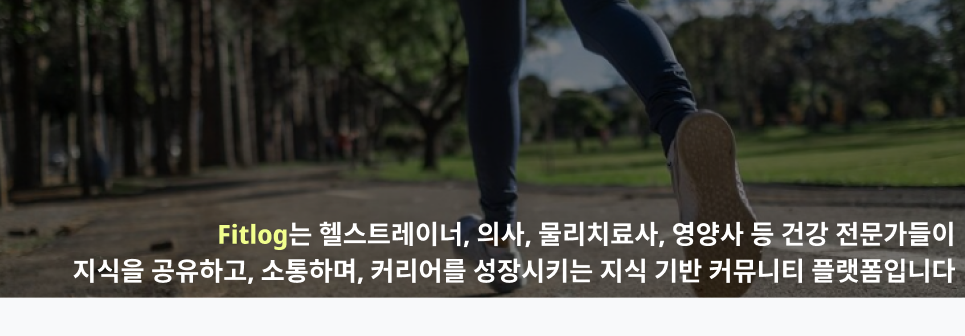
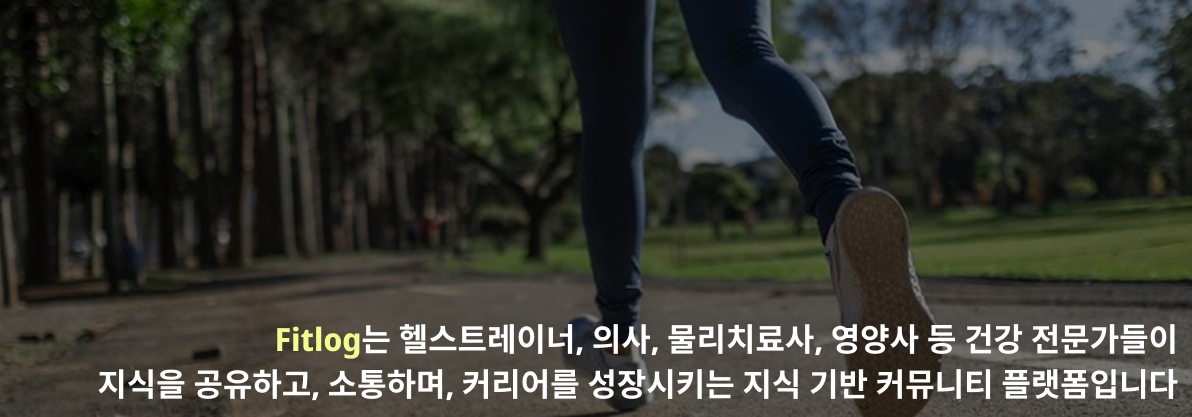
update mypage

diff --git a/front/fitlog/src/views/MyPageView.vue b/front/fitlog/src/views/MyPageView.vue
@@ -17,13 +17,19 @@
       <!-- 인기 칼럼 -->
       <section>
         <h2>{{ userInfo.nickname }}의 인기 칼럼</h2>
-        <ColumnList :items="popularColumns" />
+        <div v-if="popularColumns.length === 0" class="no-data">
+          아직 등록된 게시물이 없습니다.
+        </div>
+        <ColumnList v-else :items="popularColumns" />
       </section>
   
       <!-- 전체 칼럼 -->
       <section>
         <h2>{{ userInfo.nickname }}의 전체 칼럼</h2>
-        <PostList :posts="posts" />
+        <div v-if="posts.length === 0" class="no-data">
+          아직 등록된 게시물이 없습니다.
+        </div>
+        <PostList v-else :posts="posts" />
       </section>
     </div>
   </template>
@@ -41,10 +47,10 @@ import { GetInfo } from '@/api/user'
   const posts = ref([]);
   const store = useUserStore();
   
-  const profileImg = ref('/profile_default.png') // 기본 프로필 이미지
+  const profileImg = ref('/landingpage2.png') // 기본 프로필 이미지
   const userInfo = ref({
-    nickname: store.userId,
-    role: data.userRole,
+    nickname: '당신은 누구십니까',
+    role: '당신의 직업은?',
     desc: 'working out is essential to me',
     extra: [
       'winning bodybuilding contest',
@@ -57,19 +63,25 @@ import { GetInfo } from '@/api/user'
   const popularColumns = ref([])
   
   onMounted(async () => {
-  if (store.userId) {
-    posts.value = await getUserColumns(store.userId)
-    popularColumns.value = await getUserPopularColumns(store.userId)
-  }
-  data.value = await GetInfo(store.userId);
-  userInfo.value = {
-      nickname: data.value.userName,
-      role: data.value.userRolerole,
+    if (store.userId) {
+      try {
+        data.value = await GetInfo(store.userId);
+        userInfo.value = {
+          nickname: data.value.userName,
+          role: data.value.userRoleName.userRoleName 
+        }
+      } catch (error) {
+        console.error('Error fetching user info:', error);
+      }
+
+      // 게시물 데이터 가져오기
+      const columns = await getUserColumns(store.userId);
+      posts.value = columns || []; // null이나 undefined면 빈 배열로
+
+      const popular = await getUserPopularColumns(store.userId);
+      popularColumns.value = popular || []; // null이나 undefined면 빈 배열로
     }
-  
-
-
-})  
+  })  
 
 
 
@@ -138,5 +150,11 @@ import { GetInfo } from '@/api/user'
     font-size: 1.3rem;
     font-weight: bold;
     margin-bottom: 18px;
+  }
+  .no-data {
+    text-align: center;
+    padding: 2rem;
+    color: #666;
+    font-size: 1.1rem;
   }
   </style>

diff --git a/front/fitlog/src/components/MainBanner.vue b/front/fitlog/src/components/MainBanner.vue
@@ -13,7 +13,6 @@ import CategoryBar from './CategoryBar.vue'
 .main-banner {
   position: relative;
   width: 100%;
-  height: 320px;
   overflow: hidden;
   margin-bottom: 32px;
 }

diff --git a/wangyong/src/main/java/com/ssafy/mvc/model/dto/UserRole.java b/wangyong/src/main/java/com/ssafy/mvc/model/dto/UserRole.java
@@ -1,0 +1,29 @@
+package com.ssafy.mvc.model.dto;
+
+public class UserRole {
+    private int userRole;
+    private String userRoleName;
+
+    public UserRole() {}
+
+    public int getUserRole() {
+        return userRole;
+    }
+
+    public void setUserRole(int userRole) {
+        this.userRole = userRole;
+    }
+
+    public UserRole(int userRole, String userRoleName) {
+        this.userRole = userRole;
+        this.userRoleName = userRoleName;
+    }
+
+    public String getUserRoleName() {
+        return userRoleName;
+    }
+
+    public void setUserRoleName(String userRoleName) {
+        this.userRoleName = userRoleName;
+    }
+}

diff --git a/wangyong/src/main/java/com/ssafy/mvc/model/dto/User.java b/wangyong/src/main/java/com/ssafy/mvc/model/dto/User.java
@@ -10,10 +10,22 @@ public class User {
     private int userRole;
     private String password;
     private MultipartFile attach;
-    private UserFile userFile;	// 각 파일에 대한 정보
+    private UserFile userFile;
+    private UserRole userRoleName;
+    // 각 파일에 대한 정보
 
     //생성자
 
+
+
+
+    public UserRole getUserRoleName() {
+        return userRoleName;
+    }
+
+    public void setUserRoleName(UserRole userRoleName) {
+        this.userRoleName = userRoleName;
+    }
 
     public MultipartFile getAttach() {
         return attach;

diff --git a/wangyong/src/main/java/com/ssafy/mvc/Interceptor/JwtInterceptor.java b/wangyong/src/main/java/com/ssafy/mvc/Interceptor/JwtInterceptor.java
@@ -44,5 +44,3 @@ public class JwtInterceptor implements HandlerInterceptor {
         return false;
     }
 }
-
-
